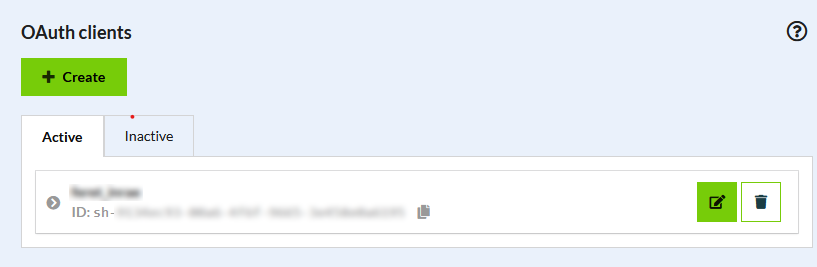
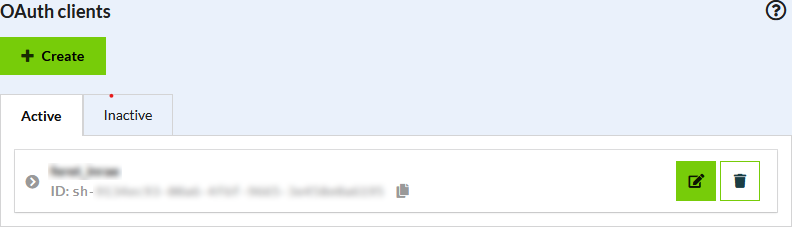
update Oauth figure

diff --git a/README.md b/README.md
@@ -70,7 +70,7 @@ displayed in the User Info of your account settings.
 
 
 <p float="left">
-   <img src="../man/figures/Oauth.png" width="100%" />
+   <img src="../man/figures/Oauth.png" width="50%" />
 </p>
 
 
